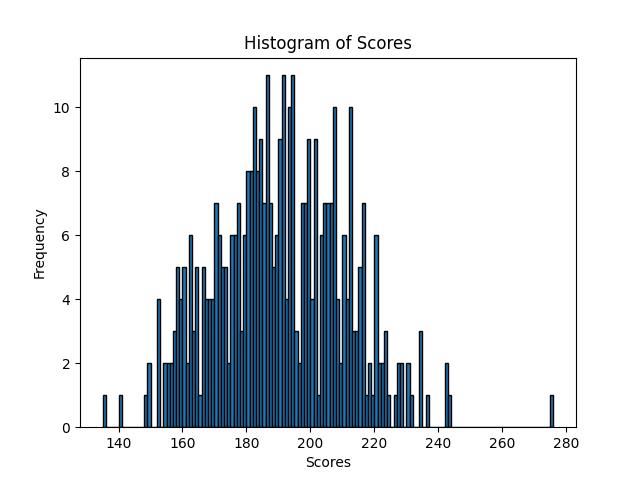
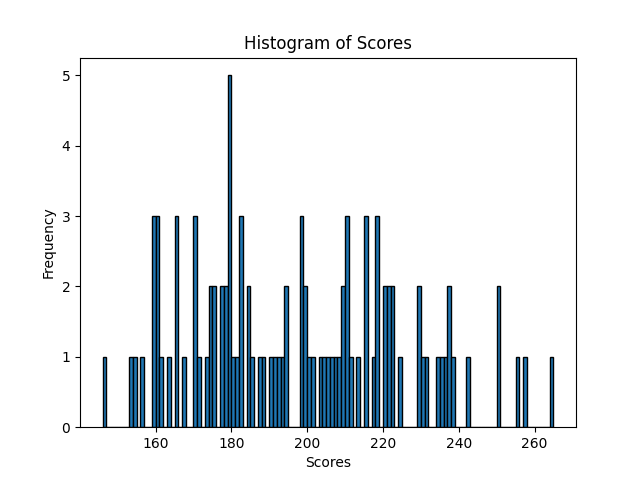
multithreading

diff --git a/main.py b/main.py
@@ -13,6 +13,8 @@ import time
 from timeit import default_timer as timer
 import matplotlib.pyplot as plt
 from threading import Thread
+from multiprocessing import Process, Manager
+
 
 
 def print_game_results(players, colors):
@@ -66,8 +68,29 @@ def run_game_threaded(game_simulation, results, index):
     p0, p1 = game_simulation.run_game()
     results[index] = (p0, p1)
 
+def create_game(NUMBER_OF_PLAYERS, mode):
+    card_deck = CardDeck(NUMBER_OF_PLAYERS, True, '2')
+    bank = Bank(NUMBER_OF_PLAYERS)
+    playing_board = PlayingBoard(card_deck)
+    # colors = ['red', 'green', 'orange', 'violet', 'blue']
+
+    #here we can define random, MCTS or human players
+    players:List[Player] = []
+    players.append(MCTSPlayer(0, None, bank))
+    players.append(RandomPlayer(1, None, bank))
+    game_state = GameState(playing_board=playing_board,
+                        players=players,
+                        card_deck=card_deck,
+                        bank=bank, 
+                        turn=0,
+                        slot_index=0,
+                        slots=[],
+                        mode=mode)
+    game_simulation = Game(game_state, True)
+    return game_simulation
+
 if __name__ == "__main__":
-    turn = 0
+    # turn = 0
     NUMBER_OF_PLAYERS = 2
     # card_deck = CardDeck(NUMBER_OF_PLAYERS, True, '2')
     # bank = Bank(NUMBER_OF_PLAYERS)
@@ -93,7 +116,7 @@ if __name__ == "__main__":
     # mode 0 - run everything
     # mode 1 - make breaks, print turns
     # mode 2 - dont make breaks, print turns
-    mode = 0
+    # mode = 0
 
     
     # game_simulation = Game( players, playing_board, mode, True)
@@ -122,38 +145,34 @@ if __name__ == "__main__":
     # exit()
     ###########################################################
     # print(players)
-    results = []
+    num_simulations = 50
+    manager = Manager()
+    results = manager.list([None] * num_simulations)
+    processes = []
+
     start = timer()
-
-    threads = [None] * 10
-    results = [None] * 10
-    for i in range(10):
+    for i in range(num_simulations):
         print(f"SIMULATION {i}")
-        card_deck = CardDeck(NUMBER_OF_PLAYERS, True, '2')
-        bank = Bank(NUMBER_OF_PLAYERS)
-        playing_board = PlayingBoard(card_deck)
-        colors = ['red', 'green', 'orange', 'violet', 'blue']
+        game_simulation = create_game(NUMBER_OF_PLAYERS, 0)  # Replace with your actual game simulation class
+        process = Process(target=run_game_threaded, args=(game_simulation, results, i))
+        processes.append(process)
+        process.start()
 
-        #here we can define random, MCTS or human players
-        players:List[Player] = []
-        players.append(MCTSPlayer(0, None, bank))
-        players.append(RandomPlayer(1, None, bank))
-        game_state = GameState(playing_board=playing_board,
-                            players=players,
-                            card_deck=card_deck,
-                            bank=bank, 
-                            turn=0,
-                            slot_index=0,
-                            slots=[],
-                            mode=mode)
-        game_simulation = Game(game_state, True)
-        for i in range(len(threads)):
-            threads[i] = Thread(target=run_game_threaded, args=(game_simulation, results, i))
-            threads[i].start()
-        # p0, p1 = game_simulation.run_game()
-        # results.append((p0, p1))
-    for i in range(len(threads)):
-        threads[i].join()
+    for process in processes:
+        process.join()
+    # threads = [None] * 10
+    # results = [None] * 10
+    # for i in range(10):
+    #     
+
+    #     for i in range(len(threads)):
+           
+    #         threads[i] = Thread(target=run_game_threaded, args=(game_simulation, results, i))
+    #         threads[i].start()
+    #     # p0, p1 = game_simulation.run_game()
+    #     # results.append((p0, p1))
+    # for i in range(len(threads)):
+    #     threads[i].join()
 
     end = timer()
     interpret_data(results)

diff --git a/temp.py b/temp.py
@@ -26,7 +26,7 @@ import matplotlib.pyplot as plt
 import numpy as np
 
 # Example data
-with open('100_200_MCTS.txt', 'r') as file:
+with open('100_50_MCTS.txt', 'r') as file:
     results = [tuple(map(int, line.strip().split(' '))) for line in file]
 
 # print(tuples_list_read)
@@ -58,7 +58,7 @@ plt.ylabel('Score')
 plt.title('Scores of Players in Each Game')
 plt.xticks(game_numbers)
 plt.legend()
-plt.savefig('100_200_MCTS.png')
+plt.savefig('100_50_MCTS.png')
 plt.close()
 
 print("Plot saved to '100_200_MCTS.png'")
